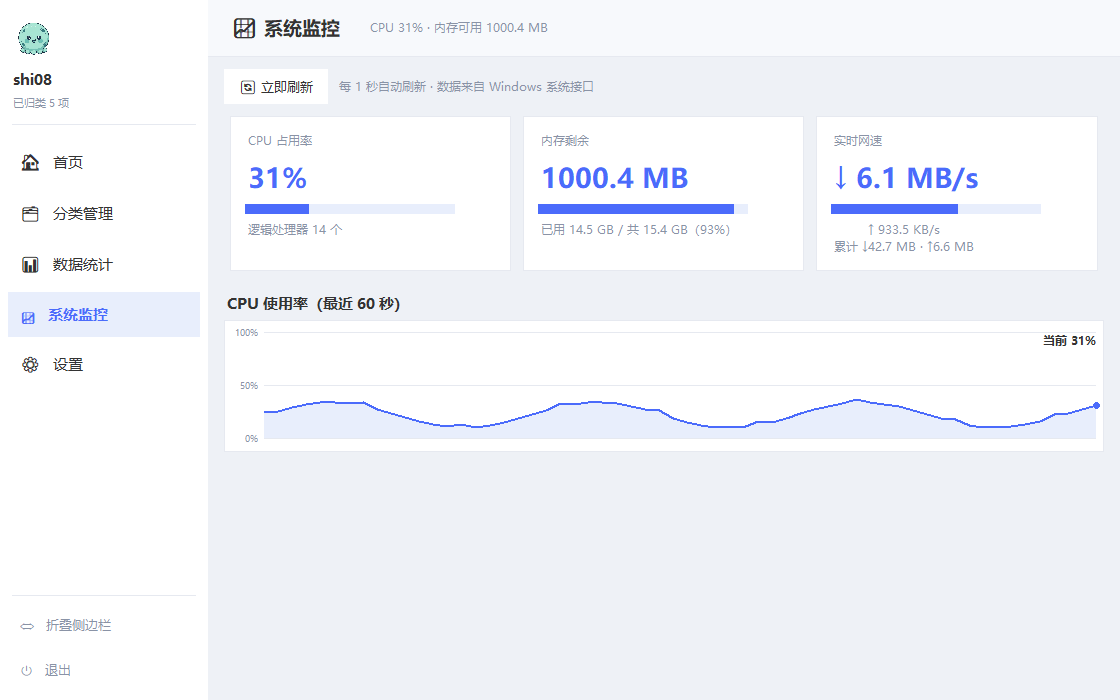
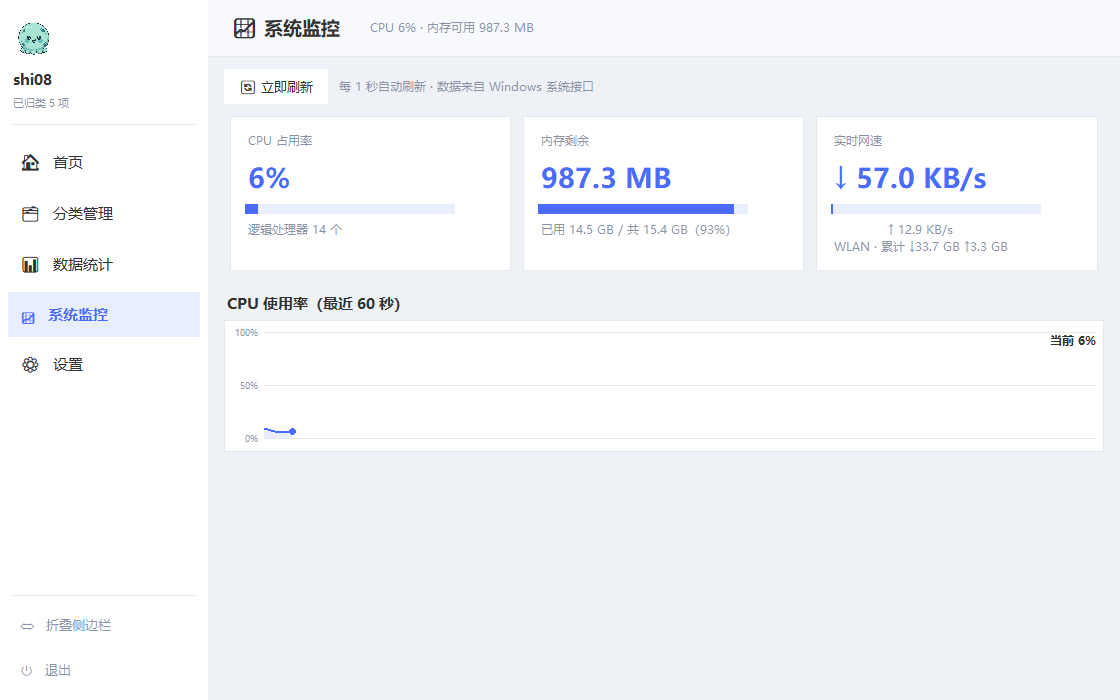
fix: 网速始终为 0 —— GetIfTable 在现代 Windows 上读不到计数, 改用 64 位 GetIfTable2
- 旧接口 GetIfTable(32位 MIB_IFROW) 对 Wi-Fi/以太网经常返回全 0(驱动不再维护老统计), 改为优先 GetIfTable2(64位), 老系统才回退
- 用已知流量值在网卡缓冲区中定位 MIB_IF_ROW2 真实布局: sizeof=1352(SDK 惯用写法 1336 会步长错位), InOctets@1208 / OutOctets@1280
- 跳过 WFP/QoS/LightWeight Filter 等过滤层接口(与物理网卡重复计数), 自动选中流量最大的主力网卡, 卡片显示网卡名
- 主力网卡变化(拔网线/切 Wi-Fi)时重建采样基准; 实测读数与 Get-NetAdapterStatistics 吻合

diff --git a/core/sysinfo.py b/core/sysinfo.py
@@ -5,8 +5,11 @@
     1. CPU：GetSystemTimes 取 idle / kernel / user 累计时间，两次采样求差；
        kernel 时间本身包含 idle，故 占用率 = (Δkernel + Δuser - Δidle) / (Δkernel + Δuser)
     2. 内存：GlobalMemoryStatusEx 取总物理内存、可用物理内存与内存负载
-    3. 网速：iphlpapi.GetIfTable 取各网卡累计收发字节数，两次采样求差 / 间隔；
-       计数器是 32 位会回绕，差值为负时补 2^32
+    3. 网速：iphlpapi.GetIfTable2 取各网卡累计收发字节数（64 位），两次采样求差 / 间隔。
+
+    注意：旧接口 GetIfTable（MIB_IFROW，32 位计数）在现代 Windows 上经常对
+    Wi-Fi / 以太网返回全 0（驱动不再维护那份老统计），所以必须优先用
+    GetIfTable2；只有在极老系统（XP/2003）上才回退到 GetIfTable。
 
 首次调用只建立基准（返回 None），之后每次调用返回与上一次采样之间的速率。
 """
@@ -40,9 +43,77 @@ if _WIN:
             self.dwLength = ctypes.sizeof(self)
             super().__init__()
 
-    # ---- GetIfTable 用到的结构 ----
+    # ---- GetIfTable2 用到的结构（64 位计数，Vista+）----
     IF_TYPE_SOFTWARE_LOOPBACK = 24
+    IF_TYPE_TUNNEL = 131
     IF_OPER_STATUS_UP = 1
+    IF_OPER_STATUS_CONNECTED = 1
+    # InterfaceAndOperStatusFlags 位域：bit0 硬件接口 / bit1 过滤接口
+    FLAG_HARDWARE = 0x01
+    FLAG_FILTER = 0x02
+
+    class MIB_IF_ROW2(ctypes.Structure):
+        """网卡信息行。
+
+        真实 sizeof = 1352（实测：相邻两行网卡名在缓冲区中的间隔）。若按 SDK
+        文档写成 1336，table[] 步长就会错位，从第二块网卡起全是垃圾数据。
+
+        另外实测确认的字段偏移（相对行首）：
+            Alias 28 / Description 542 / Mtu 1124 / Type 1128 / OperStatus 1156
+            TransmitLinkSpeed 1192 / ReceiveLinkSpeed 1200
+            InOctets 1208 / OutOctets 1280
+        因此 In 系列后面有一个保留的 8 字节字段，Out 系列后面同样补一个，
+        最终正好 1352 字节。
+        """
+        _fields_ = [
+            ("InterfaceLuid", ctypes.c_ulonglong),
+            ("InterfaceIndex", wintypes.DWORD),
+            ("InterfaceGuid", ctypes.c_ubyte * 16),
+            ("Alias", ctypes.c_wchar * 257),
+            ("Description", ctypes.c_wchar * 257),
+            ("PhysicalAddressLength", wintypes.DWORD),
+            ("PhysicalAddress", ctypes.c_ubyte * 32),
+            ("PermanentPhysicalAddress", ctypes.c_ubyte * 32),
+            ("Mtu", wintypes.DWORD),
+            ("Type", wintypes.DWORD),
+            ("TunnelType", wintypes.DWORD),
+            ("MediaType", wintypes.DWORD),
+            ("PhysicalMediumType", wintypes.DWORD),
+            ("AccessType", wintypes.DWORD),
+            ("DirectionType", wintypes.DWORD),
+            ("Flags", ctypes.c_ubyte),          # 位域实际只占 1 字节
+            ("OperStatus", wintypes.DWORD),
+            ("AdminStatus", wintypes.DWORD),
+            ("MediaConnectState", wintypes.DWORD),
+            ("NetworkGuid", ctypes.c_ubyte * 16),
+            ("ConnectionType", wintypes.DWORD),
+            ("TransmitLinkSpeed", ctypes.c_ulonglong),
+            ("ReceiveLinkSpeed", ctypes.c_ulonglong),
+            ("InOctets", ctypes.c_ulonglong),
+            ("InUcastPkts", ctypes.c_ulonglong),
+            ("InNUcastPkts", ctypes.c_ulonglong),
+            ("InDiscards", ctypes.c_ulonglong),
+            ("InErrors", ctypes.c_ulonglong),
+            ("InUnknownProtos", ctypes.c_ulonglong),
+            ("InMulticastPkts", ctypes.c_ulonglong),
+            ("InBroadcastPkts", ctypes.c_ulonglong),
+            ("_rsv_in", ctypes.c_ulonglong),
+            ("OutOctets", ctypes.c_ulonglong),
+            ("OutUcastPkts", ctypes.c_ulonglong),
+            ("OutNUcastPkts", ctypes.c_ulonglong),
+            ("OutDiscards", ctypes.c_ulonglong),
+            ("OutErrors", ctypes.c_ulonglong),
+            ("OutMulticastPkts", ctypes.c_ulonglong),
+            ("OutBroadcastPkts", ctypes.c_ulonglong),
+            ("OutQLen", ctypes.c_ulonglong),
+            ("_rsv_out", ctypes.c_ulonglong),
+        ]
+
+    class MIB_IF_TABLE2(ctypes.Structure):
+        _fields_ = [("NumEntries", wintypes.DWORD),
+                    ("Table", MIB_IF_ROW2 * 1)]
+
+    # ---- GetIfTable（旧 32 位，仅作回退）----
     MAX_IF = 64
 
     class MIB_IFROW(ctypes.Structure):
@@ -70,8 +141,7 @@ if _WIN:
             ("dwOutQLen", wintypes.DWORD),
             ("dwDescrLen", wintypes.DWORD),
             # 实测 sizeof(MIB_IFROW) = 860（bDescr 在 SDK 中按 260 字节对齐），
-            # 若写成 256 会让 ctypes 算出 856，导致 table[] 步长错位、从第二个
-            # 网卡开始全部解析成垃圾。
+            # 若写成 256 会让 ctypes 算出 856，导致 table[] 步长错位。
             ("bDescr", ctypes.c_ubyte * 260),
         ]
 
@@ -131,8 +201,36 @@ def mem_info():
 
 
 # ---------------- 网络 ----------------
+def _if_rows2():
+    """GetIfTable2 取网卡列表（失败返回空列表）。
+
+    Windows 自己分配内存，用完后必须 FreeMibTable 释放。
+    """
+    if not _WIN:
+        return []
+    try:
+        p_tbl = ctypes.POINTER(MIB_IF_TABLE2)
+        _iphlpapi.GetIfTable2.argtypes = [ctypes.POINTER(p_tbl)]
+        _iphlpapi.GetIfTable2.restype = wintypes.DWORD
+        _iphlpapi.FreeMibTable.argtypes = [ctypes.c_void_p]
+    except AttributeError:          # 极老系统没有这两个函数
+        return []
+    tbl = p_tbl()
+    if _iphlpapi.GetIfTable2(ctypes.byref(tbl)) != 0:
+        return []
+    try:
+        n = tbl.contents.NumEntries
+        if n <= 0:
+            return []
+        arr = (MIB_IF_ROW2 * n).from_address(
+            ctypes.addressof(tbl.contents.Table))
+        return list(arr)
+    finally:
+        _iphlpapi.FreeMibTable(tbl)
+
+
 def _if_rows():
-    """取网卡列表（失败返回空列表）。"""
+    """旧接口 GetIfTable（32 位计数），仅在 GetIfTable2 不可用时回退。"""
     if not _WIN:
         return []
     size = wintypes.DWORD(ctypes.sizeof(MIB_IFTABLE))
@@ -152,47 +250,83 @@ def _if_rows():
     return []
 
 
-def net_counters():
-    """网卡累计收发字节数 -> (接收, 发送)，排除回环接口。
+def _iface_name(row) -> str:
+    """网卡名：优先 Alias（别名未清零时会连带描述，截断处理）。"""
+    name = (row.Alias or "").split("\x00")[0].strip()
+    return name[:24] if name else ""
 
-    优先只统计「已连接」的网卡；若一个已连接的都没有（虚拟机 / 无网络环境），
-    退化为统计全部非回环网卡，避免永远显示 0。
+
+def _pick_iface():
+    """挑一块「主力网卡」-> (累计接收, 累计发送, 网卡名)。
+
+    过滤规则：
+        - 跳过回环、隧道接口
+        - 跳过 WFP / QoS / LightWeight Filter 等「过滤层」接口
+          （它们与物理网卡统计同一份流量，累加会重复计数好几倍）
+        - 优先已连接（OperStatus=Up）且流量最大的一块
     """
-    rows = [r for r in _if_rows()
-            if r.dwIndex and r.dwType != IF_TYPE_SOFTWARE_LOOPBACK]
-    up = [r for r in rows if r.dwOperStatus == IF_OPER_STATUS_UP]
-    use = up if up else rows
-    return sum(r.dwInOctets for r in use), sum(r.dwOutOctets for r in use)
+    rows = _if_rows2()
+    if rows:
+        cands = []
+        for r in rows:
+            if not r.InterfaceIndex:
+                continue
+            if r.Type in (IF_TYPE_SOFTWARE_LOOPBACK, IF_TYPE_TUNNEL):
+                continue
+            if r.Flags & FLAG_FILTER:          # 过滤层接口
+                continue
+            cands.append(r)
+        up = [r for r in cands
+              if r.OperStatus == IF_OPER_STATUS_UP
+              and r.MediaConnectState == IF_OPER_STATUS_CONNECTED]
+        pool = up or cands
+        if pool:
+            best = max(pool, key=lambda r: r.InOctets + r.OutOctets)
+            return best.InOctets, best.OutOctets, _iface_name(best)
+
+    # 回退：旧接口累加非回环网卡
+    rows1 = [r for r in _if_rows()
+             if r.dwIndex and r.dwType != IF_TYPE_SOFTWARE_LOOPBACK]
+    up1 = [r for r in rows1 if r.dwOperStatus == IF_OPER_STATUS_UP]
+    use = up1 or rows1
+    if use:
+        rx = sum(r.dwInOctets for r in use)
+        tx = sum(r.dwOutOctets for r in use)
+        return rx, tx, _iface_name(use[0]) if use else ""
+    return 0, 0, ""
+
+
+def net_counters():
+    """主力网卡的累计收发字节数 -> (接收, 发送, 网卡名)。"""
+    return _pick_iface()
 
 
 def _delta(cur: int, prev: int) -> int:
-    """32 位计数器回绕处理。"""
-    d = cur - prev
-    if d < 0:
-        d += 2 ** 32
-    return max(0, d)
+    """差值（负数说明计数器重置或换了网卡，按 0 处理）。"""
+    return max(0, cur - prev)
 
 
-_net_state = {"t": 0.0, "rx": 0, "tx": 0}
+_net_state = {"t": 0.0, "rx": 0, "tx": 0, "name": ""}
 
 
 def net_speed():
-    """网速（字节/秒）-> (下载, 上传)；首次调用只建立基准，返回 None。"""
+    """网速（字节/秒）-> (下载, 上传, 网卡名)；首次调用只建立基准，返回 None。"""
     if not _WIN:
         return None
     now = time.perf_counter()
-    rx, tx = net_counters()
+    rx, tx, name = net_counters()
     st = _net_state
-    if st["t"] == 0.0:
-        st["t"], st["rx"], st["tx"] = now, rx, tx
+    # 首次采样、或主力网卡变了（拔网线 / 换 Wi-Fi）都要重建基准，避免假峰值
+    if st["t"] == 0.0 or (name and st["name"] and name != st["name"]):
+        st["t"], st["rx"], st["tx"], st["name"] = now, rx, tx, name
         return None
     dt = now - st["t"]
     if dt <= 0:
         return None
     down = _delta(rx, st["rx"]) / dt
     up = _delta(tx, st["tx"]) / dt
-    st["t"], st["rx"], st["tx"] = now, rx, tx
-    return down, up
+    st["t"], st["rx"], st["tx"], st["name"] = now, rx, tx, name
+    return down, up, name
 
 
 def prime():

diff --git a/gui/pages.py b/gui/pages.py
@@ -825,12 +825,13 @@ class SystemPage(BasePage):
             self._mem_sub.config(text="无法读取内存信息")
 
         if speed:
-            down, up = speed
+            down, up, ifname = speed
             self._net_val.config(text="↓ " + sysinfo.fmt_speed(down))
-            self._set_meter(self._net_meter, peak := max(down, up, 1.0) / (10 * 1024 * 1024))
-            rx, tx = sysinfo.net_counters()
+            self._set_meter(self._net_meter, max(down, up, 1.0) / (10 * 1024 * 1024))
+            rx, tx, _ = sysinfo.net_counters()
+            who = f"{ifname} · " if ifname else ""
             self._net_sub.config(text=f"↑ {sysinfo.fmt_speed(up)}\n"
-                                      f"累计 ↓{sysinfo.fmt_bytes(rx)} · ↑{sysinfo.fmt_bytes(tx)}")
+                                      f"{who}累计 ↓{sysinfo.fmt_bytes(rx)} ↑{sysinfo.fmt_bytes(tx)}")
         else:
             self._net_val.config(text="↓ —")
             self._net_sub.config(text="采样中…")

diff --git a/README.md b/README.md
@@ -52,9 +52,9 @@
 - 📊 **数据统计页**：桌面项目总数、已归类 / 未归类、分类数，以及分类与类型的分布条
 - 🖱 右侧滚动条可点击轨道跳页、按住滑块拖动；内容不满一屏时自动置为不可滚状态
 - 📈 **系统监控**：CPU 占用率（`GetSystemTimes` 两次采样求差）、物理内存剩余
-  （`GlobalMemoryStatusEx`）、实时下载 / 上传网速（`GetIfTable` 网卡计数差分，
-  排除回环、处理 32 位计数器回绕），每秒自动刷新，含最近 60 秒 CPU 折线图，
-  同样零第三方依赖
+  （`GlobalMemoryStatusEx`）、实时下载 / 上传网速（`GetIfTable2` 网卡计数差分，
+  自动选中主力网卡、跳过过滤层避免重复计数），每秒自动刷新，
+  含最近 60 秒 CPU 折线图，同样零第三方依赖
 - 🐙 **桌面悬浮宠物**：工具栏「🐙 桌面宠物」可召唤墨墨悬浮在桌面上
   （无边框、背景完全透明、鼠标穿透、像在水里一样上下浮动），右键可切换
   完全穿透 / 浮动速度 / 收起；尺寸与浮动参数在 `gui/pet.py` 顶部可调
@@ -118,6 +118,19 @@ SJ-desktop-manager/
 
 ## 更新日志
 
+### v0.8.1 — 网速修复
+
+- **修复网速一栏始终为 0 的问题**：旧接口 `GetIfTable`（32 位计数）在现代
+  Windows 上经常对 Wi-Fi / 以太网返回全 0（驱动不再维护那份老统计），
+  改用 64 位的 **`GetIfTable2`** 读取
+- 通过在网卡缓冲区中搜索已知流量值定位 `MIB_IF_ROW2` 的真实布局：
+  `sizeof = 1352`（SDK 惯用写法算出 1336 会导致步长错位），`InOctets` 偏移
+  1208 / `OutOctets` 偏移 1280
+- **不再重复计数**：跳过 WFP / QoS / LightWeight Filter 等「过滤层」接口
+  （它们与物理网卡统计同一份流量），改为自动选中流量最大的主力网卡，
+  网速卡片会显示网卡名（如 `WLAN · 累计 ↓33.7 GB ↑3.3 GB`）
+- 拔网线 / 切换 Wi-Fi 导致主力网卡变化时自动重建采样基准，避免假峰值
+
 ### v0.8 — 系统监控
 
 - **新增「📈 系统监控」页面**（左侧边栏新栏目），每 1 秒自动刷新：
@@ -125,9 +138,9 @@ SJ-desktop-manager/
   - **内存剩余**：可用内存大字显示，附已用 / 总量与负载百分比
   - **实时网速**：下载 / 上传速率 + 开机以来累计收发流量
 - 新增 `core/sysinfo.py`：全部用 ctypes 直调 Win32（`GetSystemTimes`、
-  `GlobalMemoryStatusEx`、`GetIfTable`），依旧**零第三方依赖**
-- 细节处理：网卡计数器 32 位回绕补偿、排除回环接口、页面销毁时
-  自动停止刷新定时器、首次采样先建基准避免首帧跳变
+  `GlobalMemoryStatusEx`、`GetIfTable2`），依旧**零第三方依赖**
+- 细节处理：排除回环 / 隧道接口、页面销毁时自动停止刷新定时器、
+  首次采样先建基准避免首帧跳变
 
 ### v0.7 — 侧边栏布局改版
 
